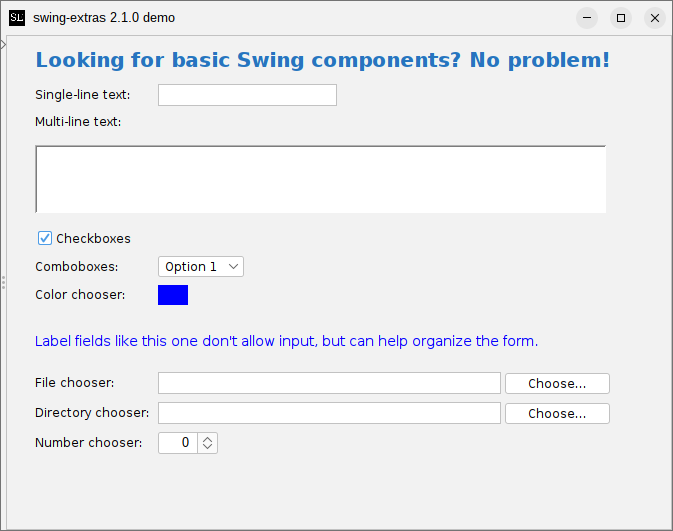
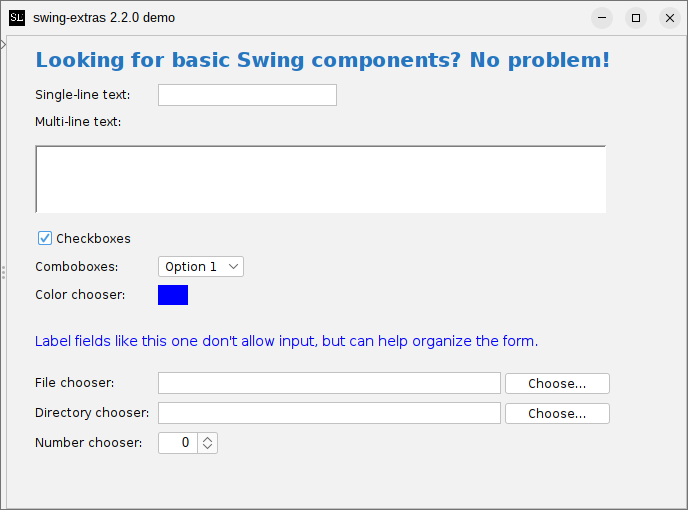
Changes for 2.2.0 release of swing-extras

Changed region(s): [[0.0312, 0.4706, 0.9049, 0.8824], [0.0, 0.0, 0.9985, 0.4118], [0.0312, 0.4412, 0.2184, 0.5882]]

diff --git a/src/introduction.md b/src/introduction.md
@@ -7,7 +7,7 @@ since around 2012, but was not publicly available until 2025. This documentation
 that `swing-extras` offers that allow you to quickly and easily add useful functionality to your Java Swing
 applications.
 
-**This guide covers version 2.1.0 of swing-extras from 2025-05-17** 
+**This guide covers version 2.2.0 of swing-extras from 2025-06-11** 
 
 The library jar includes a built-in demo application that offers a brief preview of some of the features and
 components of `swing-extras`:
@@ -23,12 +23,12 @@ components of `swing-extras`:
   <dependency>
     <groupId>ca.corbett</groupId>
     <artifactId>swing-extras</artifactId>
-    <version>2.1.0</version>
+    <version>2.2.0</version>
   </dependency>
 </dependencies>
 ```
 
-At the time of this writing, `2.1.0` is the latest version. You can verify the latest available
+At the time of this writing, `2.2.0` is the latest version. You can verify the latest available
 version on the GitHub project page:
 - <https://github.com/scorbo2/swing-extras>
 - [Browse the javadocs online](http://www.corbett.ca/swing-extras-javadocs/)
